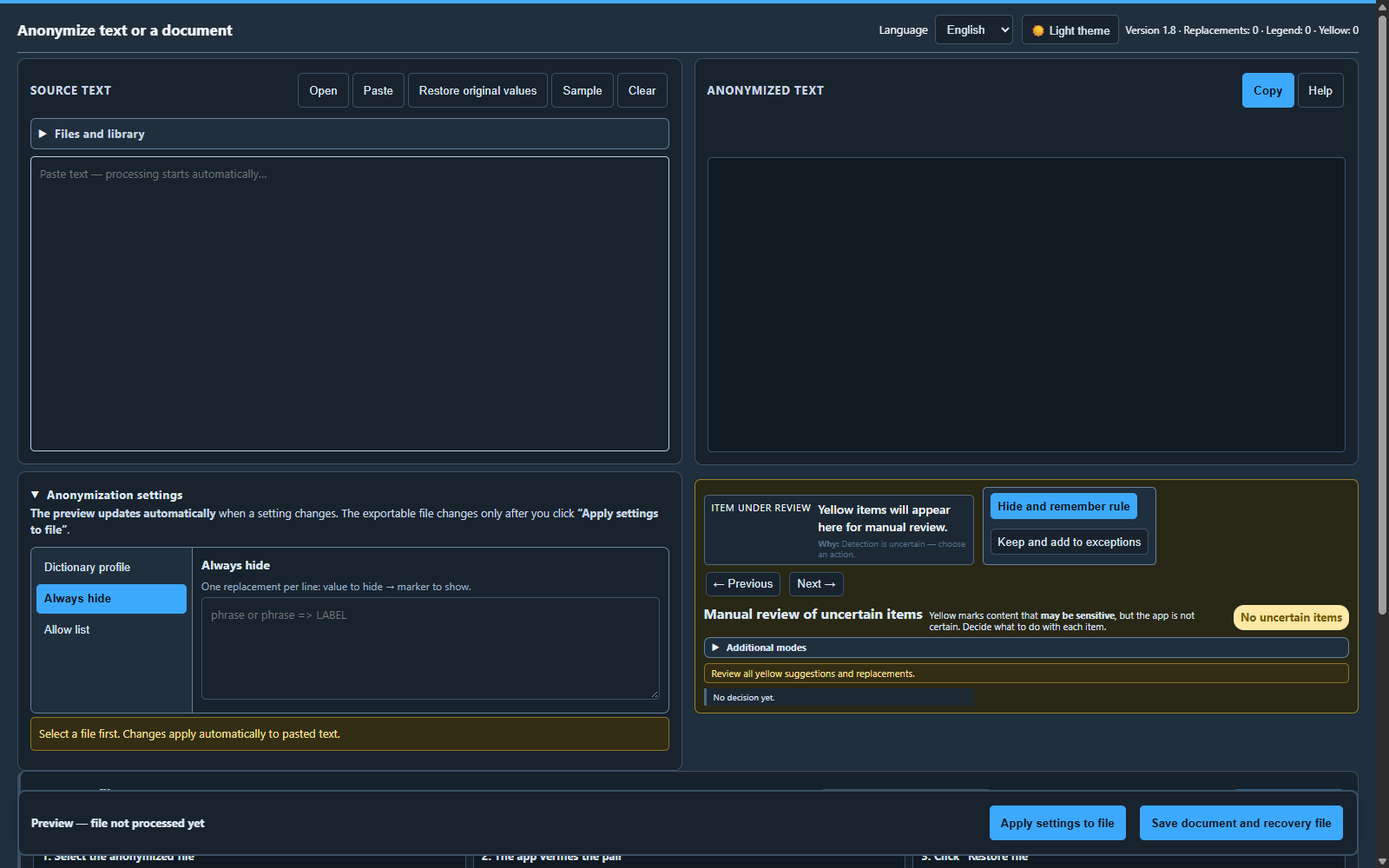
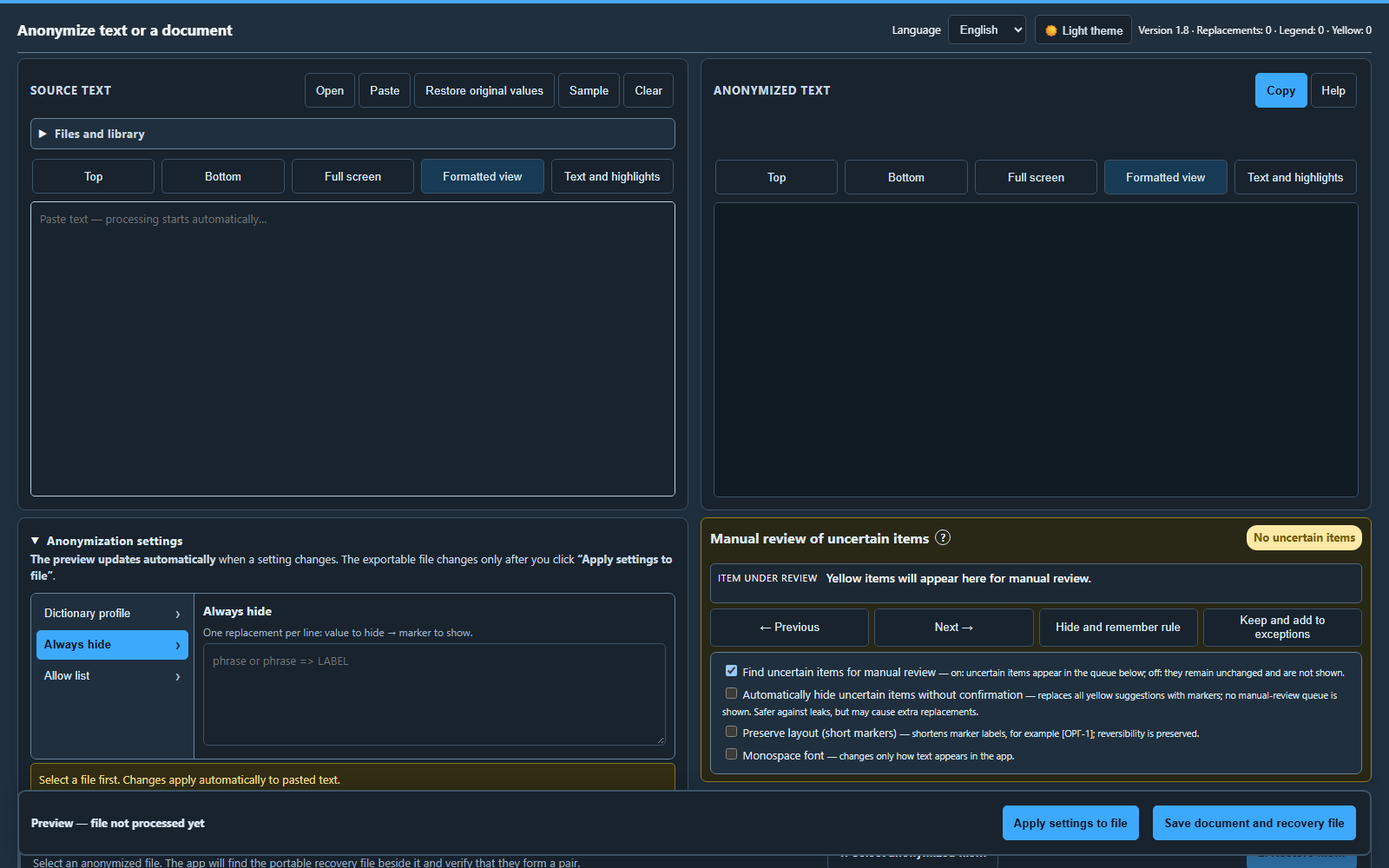
docs: refresh feature coverage and screenshots

diff --git a/README.md b/README.md
@@ -30,7 +30,7 @@ The packaged application does not require Python, `uv`, pip, or manually install
 
 - Added native Linux/macOS CI and packaged smoke gates, including fail-closed checks for secure storage and clipboard integration. Windows remains the primary supported platform, and the existing Word COM path for high-fidelity DOC/DOCX handling is unchanged.
 - Packaged builds now include the runtime `python-docx` templates required for DOCX creation and export.
-- Moved the manual-review workspace below the two preview panes, compacted its actions, collapsed optional modes, and kept the apply panel visible while reviewing.
+- Moved the manual-review workspace below the two preview panes, compacted its actions, and kept the apply panel visible while reviewing. Two explicit, mutually consistent checkboxes now control manual review and automatic concealment without the former dropdown or duplicate `Additional modes` headings.
 - Reworked the document workspace: `Open` is in the source header, the mapping chips sit above the anonymized preview, both previews are larger, and the redundant workflow strip, subtitle, source label, storage notice, and visible drop hint were removed. Window-level drag-and-drop remains available.
 - Increased the preferred Windows launch width to 1600 px while clamping it to the available screen, improved low-height layouts, and aligned the Russian and English interfaces in light and dark themes.
 - The formatted-preview toolbar now appears immediately while rendering, reserves its final position, reports that the view is being prepared, and enables formatted-only controls when ready.
@@ -49,6 +49,11 @@ The packaged application does not require Python, `uv`, pip, or manually install
 - On narrow screens the file-library controls collapse to one bounded column, so select/import/export/delete controls stay inside the viewport.
 - Equal DOCX location values with different hard-break topology keep separate reversible identities during edited-package restoration.
 - Embedded DOCX images and static diagrams are removed from the anonymized copy with a visible `[СХЕМА-N]` marker and restored exactly on the local computer; the public screenshots show the current clean UI without user data.
+- Previous/Next navigation preserves the selected formatted or text view, aligns both formatted panes by structural anchor, and scrolls the exact selected range into view after initial selection, delayed rendering, repeated values, or a missing-anchor fallback.
+- The formatted-preview status occupies its own row and all five controls remain together on the next row during loading and ready states, including narrow RU/EN layouts.
+- Plain text, structured documents, and the manual-review queue now use the same detector precedence, so a nested uncertain hint is not queued when a stronger rule replaces the complete logical record.
+- The current-review card keeps a stable responsive height in `off`, `review`, and `auto` states; compact disabled summaries retain the complete localized explanation in the tooltip and accessible label.
+- Conservative infrastructure detection now covers structured machine and service identifiers with internal hyphens/underscores, mixed separators or case, compact letter-number forms, and digit-led inventory values while retaining prose and software/version safeguards.
 - Added and expanded regression coverage for layout, localization parity, address/index detection, formatted-preview loading and clearing, packaging, secure storage, and native platform smoke checks.
 
 See [CHANGELOG.md](CHANGELOG.md) for the version history in English and Russian.
@@ -131,7 +136,7 @@ Python, `uv`, pip и установка зависимостей для гото
 
 - Добавлены нативные CI-сборки Linux/macOS и проверки готовых пакетов, включая fail-closed-проверки защищённого хранилища и буфера обмена. Windows остаётся основной поддерживаемой платформой, существующий Word COM-конвейер точной обработки DOC/DOCX не изменён.
 - В готовые сборки включены служебные шаблоны `python-docx`, необходимые для создания и экспорта DOCX.
-- Блок ручной проверки перенесён под две панели предпросмотра, его действия уплотнены, дополнительные режимы свёрнуты, а панель применения остаётся видимой во время проверки.
+- Блок ручной проверки перенесён под две панели предпросмотра, его действия уплотнены, а панель применения остаётся видимой во время проверки. Ручной проверкой и автоматическим скрытием теперь управляют два явных взаимосогласованных флажка без прежнего выпадающего списка и дублирующихся заголовков «Дополнительные режимы».
 - Рабочая область документа перестроена: `Открыть` находится в заголовке исходного документа, маркеры соответствий — над обезличенным предпросмотром, обе области предпросмотра увеличены. Удалены лишняя полоса этапов, подзаголовок, подпись исходного редактора, статическое уведомление о хранении и видимая drop-подсказка; перетаскивание файла в окно продолжает работать.
 - Предпочтительная ширина окна Windows увеличена до 1600 пикселей с ограничением по доступному экрану, улучшена компоновка при небольшой высоте, русская и английская версии согласованы в светлой и тёмной темах.
 - Панель форматированного предпросмотра появляется сразу после начала подготовки, заранее занимает итоговое место, сообщает о загрузке и включает доступные только после готовности команды автоматически.
@@ -145,6 +150,11 @@ Python, `uv`, pip и установка зависимостей для гото
 - Ограниченные имена сервисных учётных записей заменяются одним маркером `ЛОГИН`, а четырёхколоночные инвентарные строки покрывают регион, сокращение округа, город/филиал и полный адрес с приоритетом точных сущностей над сокращениями.
 - Обе кнопки решения ручной проверки собраны под правой панелью обезличенного текста; hover-подсказки сохранены, постоянная инструкция по завершению скрыта из видимой компоновки.
 - Встроенные рисунки и статические схемы DOCX удаляются из обезличенной копии с видимым маркером `[СХЕМА-N]` и точно восстанавливаются локально; публичные скриншоты показывают актуальный чистый интерфейс без пользовательских данных.
+- «Предыдущее»/«Следующее» сохраняют выбранный форматированный или текстовый вид, синхронизируют обе форматированные панели по структурному anchor и прокручивают точный выбранный диапазон в видимую область при первом выборе, позднем рендере, повторах и fallback без anchor.
+- Статус форматированного предпросмотра занимает отдельную строку, а все пять кнопок остаются вместе на следующей строке во время подготовки и после готовности, включая узкие RU/EN-компоновки.
+- Обычный текст, структурированные документы и очередь ручной проверки используют одинаковый приоритет детекторов: вложенная спорная подсказка не ставится в очередь, если более сильное правило заменяет всю логическую запись.
+- Карточка текущего спорного места сохраняет стабильную адаптивную высоту в состояниях `off`, `review` и `auto`; краткий отключённый статус сохраняет полное локализованное объяснение в подсказке и доступном имени.
+- Консервативное распознавание инфраструктуры теперь покрывает структурированные имена машин и сервисных учётных записей с внутренними дефисами/подчёркиваниями, смешанными разделителями или регистром, компактными буквенно-цифровыми формами и цифровым префиксом, сохраняя защиту обычной прозы и строк программ/версий.
 - Расширены регрессионные проверки компоновки, эквивалентности локализаций, адресов и индексов, загрузки и очистки форматированного предпросмотра, упаковки, защищённого хранилища и нативных platform smoke checks.
 
 История версий на русском и английском языках ведётся в [CHANGELOG.md](CHANGELOG.md).

diff --git a/CHANGELOG.md b/CHANGELOG.md
@@ -25,6 +25,10 @@ The project follows [Semantic Versioning](https://semver.org/). GitHub Releases 
 - All collapsible section headers now show a right-pointing arrow when closed and a downward arrow when open.
 - Compacted the desktop header controls into one row, kept the complete explanation on a slim second line, and enlarged the document preview panes in low-height windows.
 - Increased the preferred desktop window width from 1440 to 1600 pixels so long preview-status text and the two document panes have more horizontal space, while clamping the launch size and position to the primary monitor's working area on constrained displays.
+- Replaced the uncertain-mode dropdown with two explicit, mutually consistent checkboxes backed by the compatible `off` / `review` / `auto` states, and removed both duplicate `Additional modes` headings while retaining an accessible fieldset name.
+- Kept the manual-review candidate card at a stable responsive height in all three uncertain-mode states. Disabled states use a compact visible summary while preserving the complete localized reason in the tooltip and accessible label.
+- Made the formatted-preview toolbar deterministic: status occupies its own row and all five controls remain together on the following row during loading and ready states across responsive RU/EN layouts.
+- Refreshed the public RU/EN interface screenshots from the current bundled UI in a synthetic empty state with no user document or values.
 
 #### Fixed
 
@@ -49,6 +53,9 @@ The project follows [Semantic Versioning](https://semver.org/). GitHub Releases 
 - Russian street-first and street-suffix forms such as `ул. Энтузиастов, д.5, к.6` and `Профсоюзная улица, 125А` are now redacted without hiding generic mentions of streets or avenues.
 - Document headings, the phrase `в том числе`, contract defect wording, and payment deadlines in working days no longer seed false organization, disk, person, or money replacements across a document.
 - English `Contact:`, `Address:`, and `Software:` fields now redact labelled names, postal addresses and software values in plain text and DOCX while preserving formatting and exact restoration.
+- Previous/Next navigation now preserves the user's formatted or text view, maps both formatted panes through the same structural anchor, and scrolls the exact current range into view for initial selection, delayed readiness, repeated values, and safe missing-anchor fallback without stale callbacks overriding newer choices.
+- Plain text, structured-document analysis, exported output, and the manual-review queue now share logical-record boundary and precedence semantics, preventing an obsolete nested uncertain hint when a stronger rule replaces the complete record.
+- Conservative infrastructure matching now covers bounded machine and service identifiers with internal hyphens or underscores, mixed separators/case, compact letter-number forms, and digit-led inventory values while retaining prose, path, host, email, URL, and software/version safeguards.
 
 ### Русский
 
@@ -69,6 +76,10 @@ The project follows [Semantic Versioning](https://semver.org/). GitHub Releases 
 - Во всех заголовках сворачиваемых разделов теперь показывается стрелка вправо в закрытом состоянии и вниз в открытом.
 - Элементы управления верхней панели собраны в одну строку, полное пояснение сохранено отдельной компактной строкой, а области предпросмотра документов в невысоких окнах увеличены.
 - Предпочтительная начальная ширина окна увеличена с 1440 до 1600 пикселей, чтобы длинный статус предпросмотра и две панели документов получали больше места по горизонтали; на ограниченных дисплеях размер и положение запуска ограничиваются рабочей областью основного монитора.
+- Выпадающий список режима спорных фрагментов заменён двумя явными взаимосогласованными флажками поверх совместимых состояний `off` / `review` / `auto`; оба дублирующихся заголовка «Дополнительные режимы» удалены, доступное имя группы сохранено.
+- Карточка текущего спорного места сохраняет стабильную адаптивную высоту во всех трёх состояниях. При отключении виден краткий статус, а полная локализованная причина остаётся в подсказке и доступном имени.
+- Раскладка форматированного предпросмотра стала детерминированной: статус занимает отдельную строку, а все пять кнопок остаются вместе на следующей строке во время подготовки и после готовности во всех адаптивных RU/EN-вариантах.
+- Публичные RU/EN-скриншоты интерфейса обновлены из текущих встроенных ресурсов только на синтетическом пустом состоянии без пользовательского документа и значений.
 
 #### Исправлено
 
@@ -93,6 +104,9 @@ The project follows [Semantic Versioning](https://semver.org/). GitHub Releases 
 - Теперь обезличиваются русские адреса с типом улицы до или после названия, например `ул. Энтузиастов, д.5, к.6` и `Профсоюзная улица, 125А`; обычные упоминания улиц и проспектов не затрагиваются.
 - Заголовки документов, оборот `в том числе`, формулировки о недостатках по договору и сроки оплаты в рабочих днях больше не создают ложные замены организаций, дисков, ФИО и денежных сумм по всему документу.
 - В английских полях `Contact:`, `Address:` и `Software:` теперь обезличиваются подписанные имена, почтовые адреса и названия программ в обычном тексте и DOCX с сохранением форматирования и точным восстановлением.
+- «Предыдущее»/«Следующее» теперь сохраняют выбранный форматированный или текстовый вид, сопоставляют обе форматированные панели по одному структурному anchor и прокручивают точный текущий диапазон в видимую область при первом выборе, поздней готовности, повторах и безопасном fallback без anchor; устаревший callback не отменяет более новый выбор.
+- Анализ обычного текста и структурированных документов, экспортируемый результат и очередь ручной проверки используют одинаковые границы логической записи и приоритет правил, поэтому более сильная замена всей записи не оставляет устаревшую вложенную спорную подсказку.
+- Консервативное распознавание инфраструктуры теперь покрывает ограниченные имена машин и сервисных учётных записей с внутренними дефисами или подчёркиваниями, смешанными разделителями/регистром, компактными буквенно-цифровыми формами и цифровым префиксом, сохраняя защиту обычной прозы, путей, хостов, почты, URL и строк программ/версий.
 
 ## [0.2.8] — 2026-10-15
 

diff --git a/docs/verification-backlog-2026-10-18.md b/docs/verification-backlog-2026-10-18.md
@@ -249,17 +249,19 @@
 
 ## B40 — одна строка кнопок форматированного предпросмотра во время подготовки
 
-- [ ] **Источник:** пользовательское сообщение и снимки состояний подготовки/готовности; содержимое документа и реальные значения с изображений не сохраняются.
+- [x] **Источник:** пользовательское сообщение и снимки состояний подготовки/готовности; содержимое документа и реальные значения с изображений не сохраняются.
 - **Проблема:** пока форматированный вид готовится, текст состояния и кнопки используют float-flow. Часть кнопок остаётся рядом со статусом, а остальные переносятся на следующую строку; после появления более длинного готового статуса раскладка случайно становится ровной.
 - **Требование:** статус всегда занимает отдельную верхнюю строку, а пять кнопок навигации/режима — одну общую строку независимо от текста состояния. RU/EN и ширины `390/700/900` не должны получать overlap или горизонтальный overflow.
 - **Приёмка:** executable Edge geometry на production DOM для loading/ready и обеих локалей; полный source/package/install/review/CI gate. Release/tag `v0.2.9` не создавать.
+- **Закрытие:** status вынесен в отдельную строку, пять кнопок закреплены общей grid-строкой. Executable Edge подтвердил loading/ready для RU/EN × `390/700/900` без overlap/overflow; итоговый B40/B41 source suite — `691 passed`, независимый review — без logic/security findings.
 
 ## B41 — единая логика замен и ручной проверки документа
 
-- [ ] **Источник:** пользовательское сообщение и снимок противоречия между исходным фрагментом, форматированным обезличенным результатом и карточкой ручной проверки; реальное значение не сохраняется.
+- [x] **Источник:** пользовательское сообщение и снимок противоречия между исходным фрагментом, форматированным обезличенным результатом и карточкой ручной проверки; реальное значение не сохраняется.
 - **Подтверждённая корневая причина:** полный структурный DOCX анализ оборачивает документ границами `U+FDD0`, поэтому правило целой адресной записи поглощает всю строку и подавляет вложенную подсказку. Текстовый предпросмотр анализирует ту же строку без структурной обёртки; правило целой записи было ограничено только `U+FDD0`, поэтому создавалась уже неактуальная подсказка внутри значения, которое экспортируемый документ целиком заменял другим правилом.
 - **Требование:** начало/конец обычного текста и границы строк должны иметь ту же семантику логической записи, что и безопасные структурные границы документа. Если более приоритетное правило заменяет весь фрагмент, вложенная подсказка не должна попадать в ручную очередь. Нельзя пересекать строки/cells/rows или расширять замену на окружающий повествовательный текст.
 - **Приёмка:** privacy-safe synthetic parity test для plain/structured input, negatives для соседнего текста и строк, DOCX result/review consistency, full source/package/install/review/CI gate. Release/tag `v0.2.9` не создавать.
+- **Закрытие:** start/end и CR/LF получили семантику безопасных границ логической записи без пересечения строк/cells/rows; более сильная замена целой записи подавляет вложенную устаревшую подсказку. Fail-closed proof `address_review_parity_ok` обязателен для source/package verification normal и `python -O`.
 
 ## B42 — выбранное спорное место сразу видно в форматированных панелях
 
